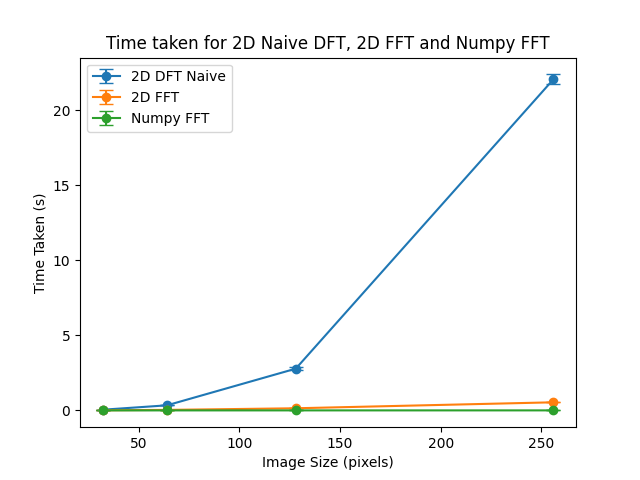
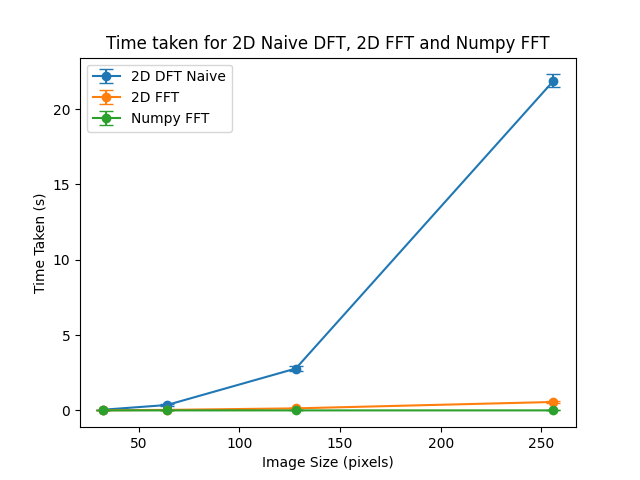
readme

diff --git a/fft.py b/fft.py
@@ -167,7 +167,7 @@ def plot_data(data: dict, keys: list[int]):
             variance[function_name] = {}
         for size, times in function_data.items():
             means[function_name][size] = np.mean(times)
-            std_devs[function_name][size] = np.std(times)
+            std_devs[function_name][size] = np.std(times) * 2
             variance[function_name][size] = np.var(times)
 
     # Print

diff --git a/README.md b/README.md
@@ -15,3 +15,16 @@ python fft.py -m 1 -i moonlanding.png
 ```
 
 Use `python3` instead of `python` if you have multiple versions of python installed.
+
+## Dependencies
+
+- Python 3.9
+- Numpy
+- Matplotlib
+- Pillow
+- Scipy
+
+All dependencies are included in the `requirements.txt` file. To install them, run:
+```bash
+pip install -r requirements.txt
+```
